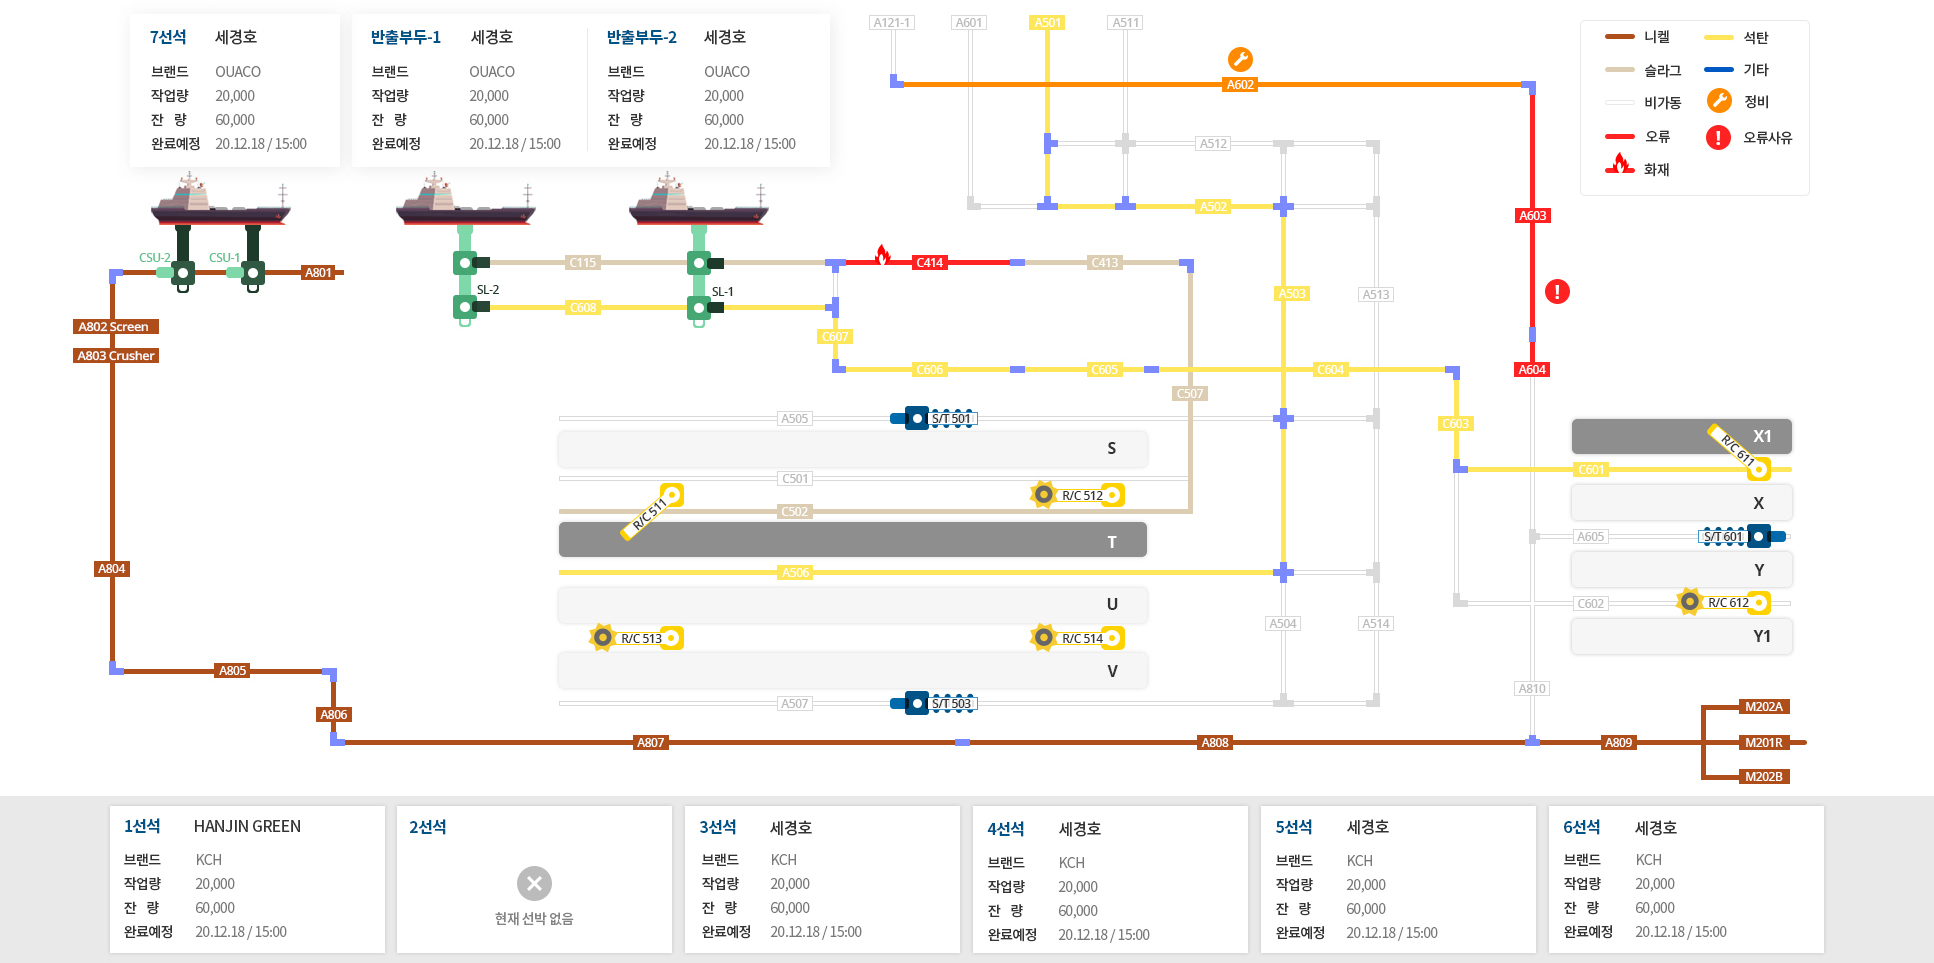
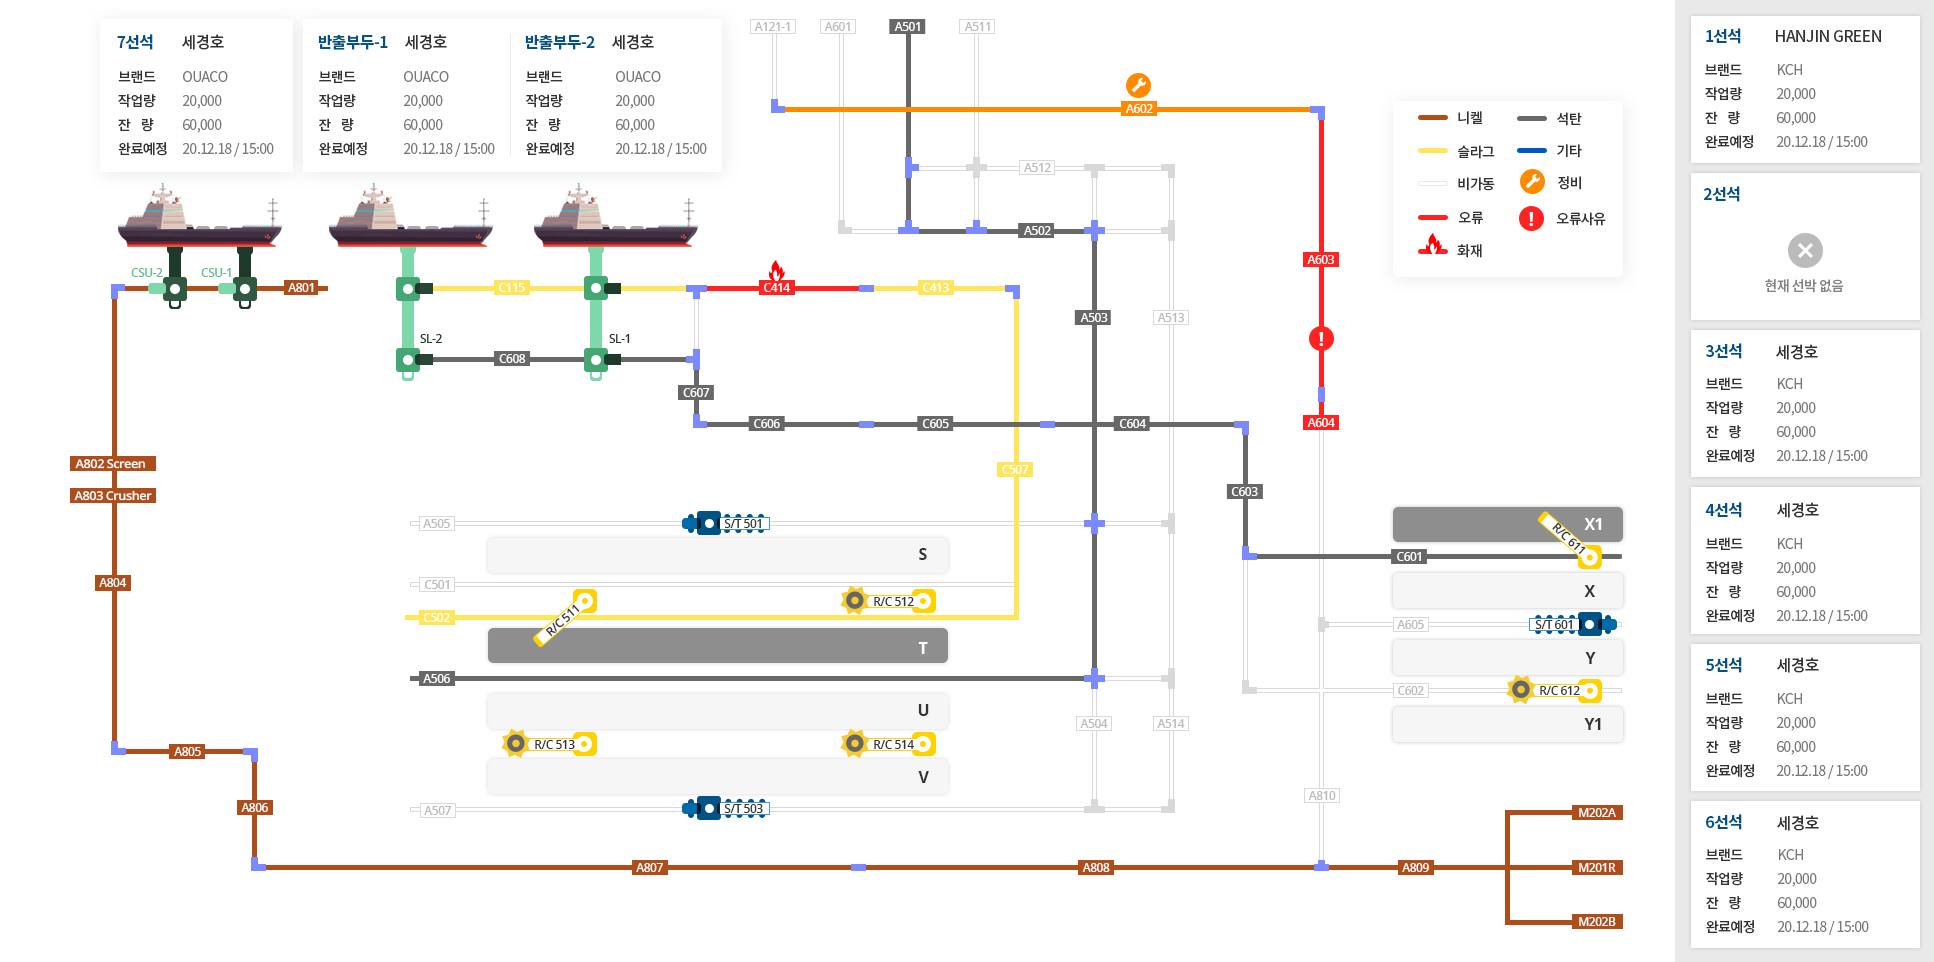
포스코폴더 변경

diff --git a/view5.html b/view5.html
@@ -6,20 +6,20 @@
 			.main_bg{background:url('img/posco_5.jpg')no-repeat 100% center; height:1080px; width:1920px; margin:0 auto; position:relative;}
 			.cogwheel{position:relative; width:100%; height:100%;}
 			.cogwheel p{position:absolute;}
-			.cogwheel .reclaimer_left1{left:595px; bottom:453px;}
-			.cogwheel .reclaimer_left2{right:210px; bottom:563px;}
-			.cogwheel .stacker1{left:869px; bottom:417px;}
+			.cogwheel .reclaimer_left1{left:508px; bottom:348px;}
+			.cogwheel .reclaimer_left2{right:378px; bottom:476px;}
+			.cogwheel .stacker1{left:660px; bottom:388px;}
 			.view_link{position:absolute; right:580px; z-index:333; top:30px;}
 			.view_link a{text-decoration:blink; color:#333; font-weight:bold; padding:5px 10px; border-radius:50px;}
 			.view_link a.on{color:#fff; background:#005386;}
 		</style>
 		<div class="main_bg">
 			<div class="view_link">
-				<a href="index.html">View1</a>
-				<a href="view2.html">View2</a>
+				<a class="on" href="#">View1</a>
+				<a href="view4.html">View2</a>
 				<a href="view3.html">View3</a>
-				<a href="view4.html">View4</a>
-				<a class="on" href="#">View5</a>
+				<a href="view2.html">View4</a>
+				<a href="index.html">View5</a>
 			</div>
 			<div class="cogwheel">
 				<p class="reclaimer_left1"><img src="img/reclaimer_left.gif"></p>

diff --git a/view2.html b/view2.html
@@ -15,11 +15,11 @@
 		</style>
 		<div class="main_bg">
 			<div class="view_link">
-				<a href="index.html">View1</a>
-				<a class="on" href="#">View2</a>
+				<a href="view5.html">View1</a>
+				<a href="view4.html">View2</a>
 				<a href="view3.html">View3</a>
-				<a href="view4.html">View4</a>
-				<a href="view5.html">View5</a>
+				<a class="on" href="#">View4</a>
+				<a href="index.html">View5</a>
 			</div>
 			<div class="cogwheel">
 				<p class="reclaimer_left1"><img src="img/reclaimer_left.gif"/></p>

diff --git a/view4.html b/view4.html
@@ -15,11 +15,11 @@
 		</style>
 		<div class="main_bg">
 			<div class="view_link">
-				<a href="index.html">View1</a>
-				<a href="view2.html">View2</a>
+				<a href="view5.html">View1</a>
+				<a class="on" href="#">View2</a>
 				<a href="view3.html">View3</a>
-				<a class="on" href="#">View4</a>
-				<a href="view5.html">View5</a>
+				<a href="view2.html">View4</a>
+				<a href="index.html">View5</a>
 			</div>
 			<div class="cogwheel">
 				<p class="reclaimer_left1"><img src="img/reclaimer_left.gif"/></p>

diff --git a/index.html b/index.html
@@ -15,11 +15,11 @@
 		</style>
 		<div class="main_bg">
 			<div class="view_link">
-				<a class="on" href="#">View1</a>
-				<a href="view2.html">View2</a>
+				<a href="view5.html">View1</a>
+				<a href="view4.html">View2</a>
 				<a href="view3.html">View3</a>
-				<a href="view4.html">View4</a>
-				<a href="view5.html">View5</a>
+				<a href="view2.html">View4</a>
+				<a class="on" href="#">View5</a>
 			</div>
 			<div class="cogwheel">
 				<p class="reclaimer_left1"><img src="img/reclaimer_left.gif"></p>

diff --git a/view3.html b/view3.html
@@ -15,11 +15,11 @@
 		</style>
 		<div class="main_bg">
 			<div class="view_link">
-				<a href="index.html">View1</a>
-				<a href="view2.html">View2</a>
+				<a href="view5.html">View1</a>
+				<a href="view4.html">View2</a>
 				<a class="on" href="#">View3</a>
-				<a href="view4.html">View4</a>
-				<a href="view5.html">View5</a>
+				<a href="view2.html">View4</a>
+				<a href="index.html">View5</a>
 			</div>
 			<div class="cogwheel">
 				<p class="reclaimer_left1"><img src="img/reclaimer_left.gif"></p>
